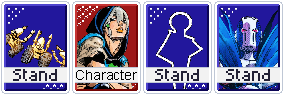
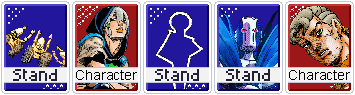
Add Hacca Howler joker

diff --git a/compendium/lua_env.py b/compendium/lua_env.py
@@ -10,7 +10,7 @@ STUBS = """
 SMODS = { Atlas = function() end, Joker = function() end, current_mod = { config = {} } }
 jojoker = { debug = function() end }
 G = {
-    GAME = { probabilities = { normal = 1 }, starting_deck_size = 52, hands = {} },
+    GAME = { probabilities = { normal = 1 }, starting_deck_size = 52, dollars = 0, hands = {} },
     jokers = {},
     C = setmetatable({}, { __index = function() return {} end }),
     P_CENTERS = setmetatable({}, { __index = function() return {} end }),

diff --git a/compendium/tests/test_mod_data.py b/compendium/tests/test_mod_data.py
@@ -56,5 +56,5 @@ def test_similar_groups(rel):
 def test_counts_match_themes_doc(mod):
     themes = {t for j in mod.jokers for t in j.themes_core + j.themes_support}
     assert len(themes) == 57
-    assert sum(len(j.conflicts) for j in mod.jokers) == 87
+    assert sum(len(j.conflicts) for j in mod.jokers) == 89
     assert len({g for j in mod.jokers for g in j.similar}) == 27

diff --git a/compendium/tests/test_build.py b/compendium/tests/test_build.py
@@ -28,7 +28,7 @@ def test_outputs_exist(site):
 
 
 def test_data_has_every_joker(data):
-    assert len(data["jokers"]) == 177 and data["version"] == "v9.9.9"
+    assert len(data["jokers"]) == 178 and data["version"] == "v9.9.9"
     assert len(data["themes"]) == 57
 
 

diff --git a/compendium/tests/test_lua_env.py b/compendium/tests/test_lua_env.py
@@ -7,7 +7,7 @@ def find(mod, key):
 
 
 def test_loads_every_joker(mod):
-    assert len(mod.jokers) == 177
+    assert len(mod.jokers) == 178
 
 
 def test_order_is_collection_order(mod):
